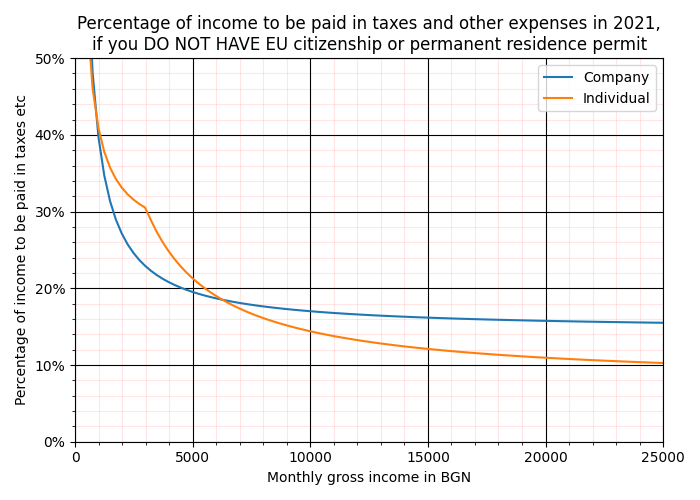
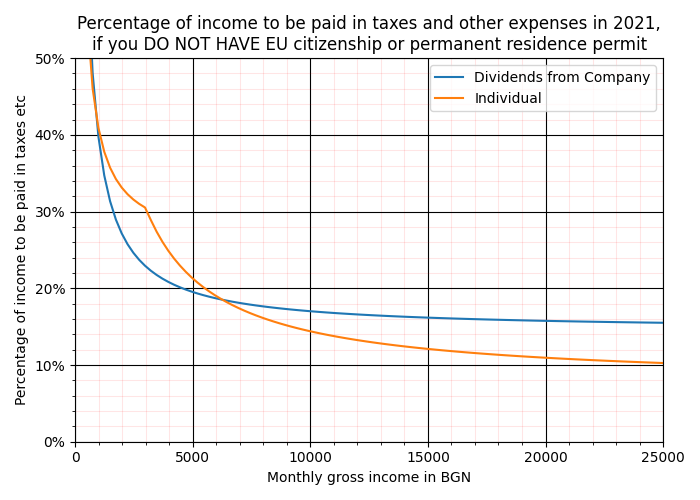
Mention "Dividends from Company" instead of just "Company"

Changed region(s): [[0.63, 0.12, 0.93, 0.21]]

diff --git a/bulgaria-freelance-taxes.py b/bulgaria-freelance-taxes.py
@@ -124,7 +124,7 @@ def plot_func(x):
             f"if you {'HAVE' if args.citizen else 'DO NOT HAVE'} EU citizenship "
             "or permanent residence permit")
 
-    plt.plot(x, y_company, label='Company')
+    plt.plot(x, y_company, label='Dividends from Company')
     plt.plot(x, y_individual, label='Individual')
 
     plt.legend()
